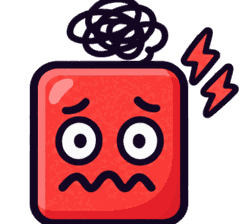
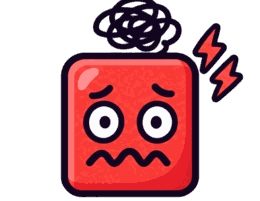
fix: line the five faces up, and ask it plainly
Three goes at this, and the measurement is what settled it. Cutting each
drawing to its own content made the tiles different sizes, because they
carry different amounts of decoration outside the tile — sparks, leaves,
a scribble, a zzz. Cutting equal boxes fixed the size and left them at
different heights. Measuring where the tile actually landed inside each
finished asset found the real fault: two of the crops had negative
offsets, which ImageMagick clamps rather than pads, so the left margin
was eaten and the re-centring pushed those tiles off by up to 37px.

Built by composition now, where a negative offset means what it says.
Every tile is the same size, at the same height, centred with equal
padding either side; the decoration overflows into a margin wide enough
for the widest of it.

On a phone the five share the row rather than each taking its own width:
sized by height they wrapped four-and-one, which reads as one of them
being a different kind of answer.

And the question is the owner's words: how do you feel?

diff --git a/internal/web/static/pile.css b/internal/web/static/pile.css
@@ -791,9 +791,9 @@
 
   /* ---------- the check-in ---------- */
 
-  /* "How is right now" — right now, and not today. A day is a thing you can
-     have had a bad one of; this asks about the minute you are in, which is the
-     only honest question and the only useful one.
+  /* "How do you feel?" — asked plainly, and about now: the reading goes stale
+     after a few hours because a day is a thing you can have had a bad one of,
+     and the useful answer is about the minute you are in.
 
      The five are not a scale and are never numbered: low and frazzled are
      different states wanting different answers, which a one-to-five row cannot
@@ -824,7 +824,7 @@
      were cut from — so the five read as five answers rather than as one
      louder than the others. The widths differ only by what decoration each
      one carries outside its tile. */
-  .face img { height: 52px; width: auto; display: block; }
+  .face img { height: 58px; width: auto; display: block; }
   .face:hover { background: rgba(254, 214, 167, .1); color: var(--paper); }
   /* Pressed, it goes down like everything else you push here. */
   .face:active { transform: translateY(3px); }
@@ -944,10 +944,13 @@
     /* The five stay on one row on a phone: they are a row of answers, and
        wrapping two onto a second line would make those two look like a
        different kind of answer. */
+    /* The five share the row exactly rather than each taking its own width.
+       Sized by height they wrapped four-and-one on a small screen, which reads
+       as one of them being a different kind of answer. */
     .checkin { margin-top: 20px; }
-    .face { padding: 5px 3px 7px; gap: 3px; font-size: 10px; letter-spacing: .05em; }
-    .face img { height: 48px; }
-    .faces { gap: 2px; }
+    .faces { gap: 0; flex-wrap: nowrap; }
+    .face { flex: 1 1 0; min-width: 0; padding: 4px 0 6px; gap: 2px; font-size: 10px; letter-spacing: .04em; }
+    .face img { width: 100%; height: auto; }
 
     .doors { gap: 10px; }
     .door { min-height: 118px; padding: 18px 16px; gap: 6px; }

diff --git a/internal/web/templates/home.html b/internal/web/templates/home.html
@@ -43,16 +43,16 @@
   <div class="checkin">
     {{if .Mood}}
     <p class="noted" role="status">
-      <img alt="" src="/static/mood-{{.Mood}}.png?v={{.V}}" width="241" height="224">
+      <img alt="" src="/static/mood-{{.Mood}}.png?v={{.V}}" width="260" height="201">
       <span>noted &mdash; {{.MoodWord}}</span>
       <a class="again" href="/?ask=1">say something else</a>
     </p>
     {{else}}
-    <p class="lead">how is right now</p>
+    <p class="lead">how do you feel?</p>
     <form class="faces" method="post" action="/mood">
       {{range .Faces}}
       <button class="face" name="mood" value="{{.Mood}}">
-        <img alt="" src="/static/mood-{{.Mood}}.png?v={{$.V}}" width="241" height="224">
+        <img alt="" src="/static/mood-{{.Mood}}.png?v={{$.V}}" width="260" height="201">
         <span>{{.Word}}</span>
       </button>
       {{end}}

diff --git a/internal/web/mood_test.go b/internal/web/mood_test.go
@@ -14,7 +14,7 @@ import (
 func TestHomeAsksHowRightNowIs(t *testing.T) {
 	body := mounted(t, &fakeStore{}).call(t, "GET", "/", nil).Body.String()
 
-	require.Contains(t, body, "how is right now")
+	require.Contains(t, body, "how do you feel?")
 	// All five, in the one order both surfaces use.
 	for _, m := range squirrel.Moods {
 		require.Contains(t, body, `value="`+string(m)+`"`, string(m))
@@ -56,7 +56,7 @@ func TestTheCheckinSaysNothingAboutYou(t *testing.T) {
 	}
 }
 
-// Six hours, because the question is "how is right now" and this morning is
+// Six hours, because the question is "how do you feel?" and this morning is
 // not now. A stale reading is not a bad one; it is not an answer to the
 // question being asked.
 func TestAStaleReadingIsAskedAgain(t *testing.T) {
@@ -65,7 +65,7 @@ func TestAStaleReadingIsAskedAgain(t *testing.T) {
 	}}
 	body := mounted(t, f).call(t, "GET", "/", nil).Body.String()
 
-	require.Contains(t, body, "how is right now")
+	require.Contains(t, body, "how do you feel?")
 	require.NotContains(t, body, "noted")
 }
 
@@ -75,7 +75,7 @@ func TestSayingSomethingElseAsksAgain(t *testing.T) {
 	m := mounted(t, f)
 
 	require.Contains(t, m.call(t, "GET", "/", nil).Body.String(), "noted")
-	require.Contains(t, m.call(t, "GET", "/?ask=1", nil).Body.String(), "how is right now")
+	require.Contains(t, m.call(t, "GET", "/?ask=1", nil).Body.String(), "how do you feel?")
 }
 
 // Not one of the five is no answer rather than a wrong one — this arrives from
@@ -94,6 +94,6 @@ func TestHomeStillStandsWhenTheCheckinCannotBeRead(t *testing.T) {
 	w := mounted(t, &fakeStore{err: errTest}).call(t, "GET", "/", nil)
 
 	require.Equal(t, 200, w.Code)
-	require.Contains(t, w.Body.String(), "how is right now")
+	require.Contains(t, w.Body.String(), "how do you feel?")
 	require.Contains(t, w.Body.String(), "the pile")
 }

diff --git a/internal/squirrel/render.go b/internal/squirrel/render.go
@@ -185,9 +185,9 @@ func EveningMessage(completed []string, captures []string, nudge *Chore) Message
 
 // CheckinQuestion is the five faces as words, since chat has no pictures.
 //
-// "How is right now" and not "how are you today": a day is a thing you can
-// have had a bad one of, and the question is about the minute you are in —
-// which is the only one the answer is useful for.
+// "How do you feel?" — asked, and answered, about now. The reading goes stale
+// after a few hours for that reason: a day is a thing you can have had a bad
+// one of, and the useful answer is about the minute you are in.
 //
 // The five are not a scale and are never numbered. Low and frazzled are
 // different states wanting different answers, which is exactly what a
@@ -202,7 +202,7 @@ func CheckinQuestion() Message {
 		})
 	}
 	return Message{
-		Text:          "How is right now?",
+		Text:          "How do you feel?",
 		SelectionMode: "single",
 		Actions:       actions,
 	}
